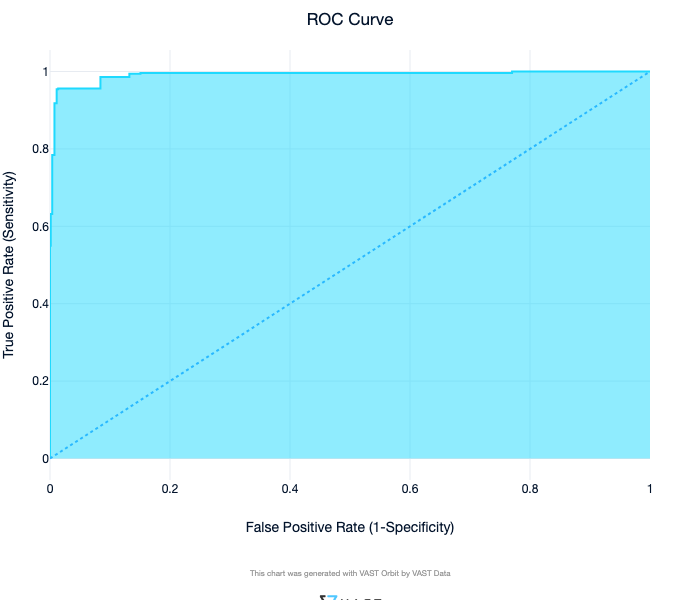
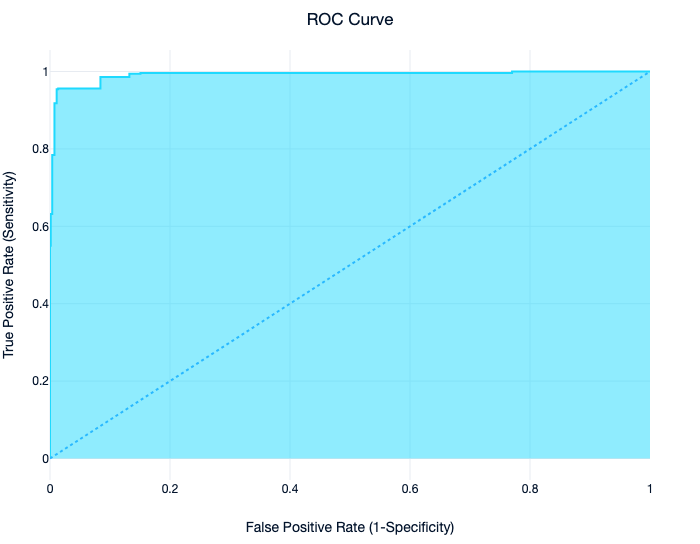
README corrections

diff --git a/README.md b/README.md
@@ -554,4 +554,4 @@ Enjoy!
 
 For contribution guidelines and additional support documentation, please refer to the project documentation.
 
-For questions and community support, join our Slack channel: **vastsupport.slack.com**
+For questions and community support, join our Slack channel: [![Slack](https://img.shields.io/badge/Slack-VAST%20Support-4A154B?logo=slack&logoColor=white)](https://vastsupport.slack.com)